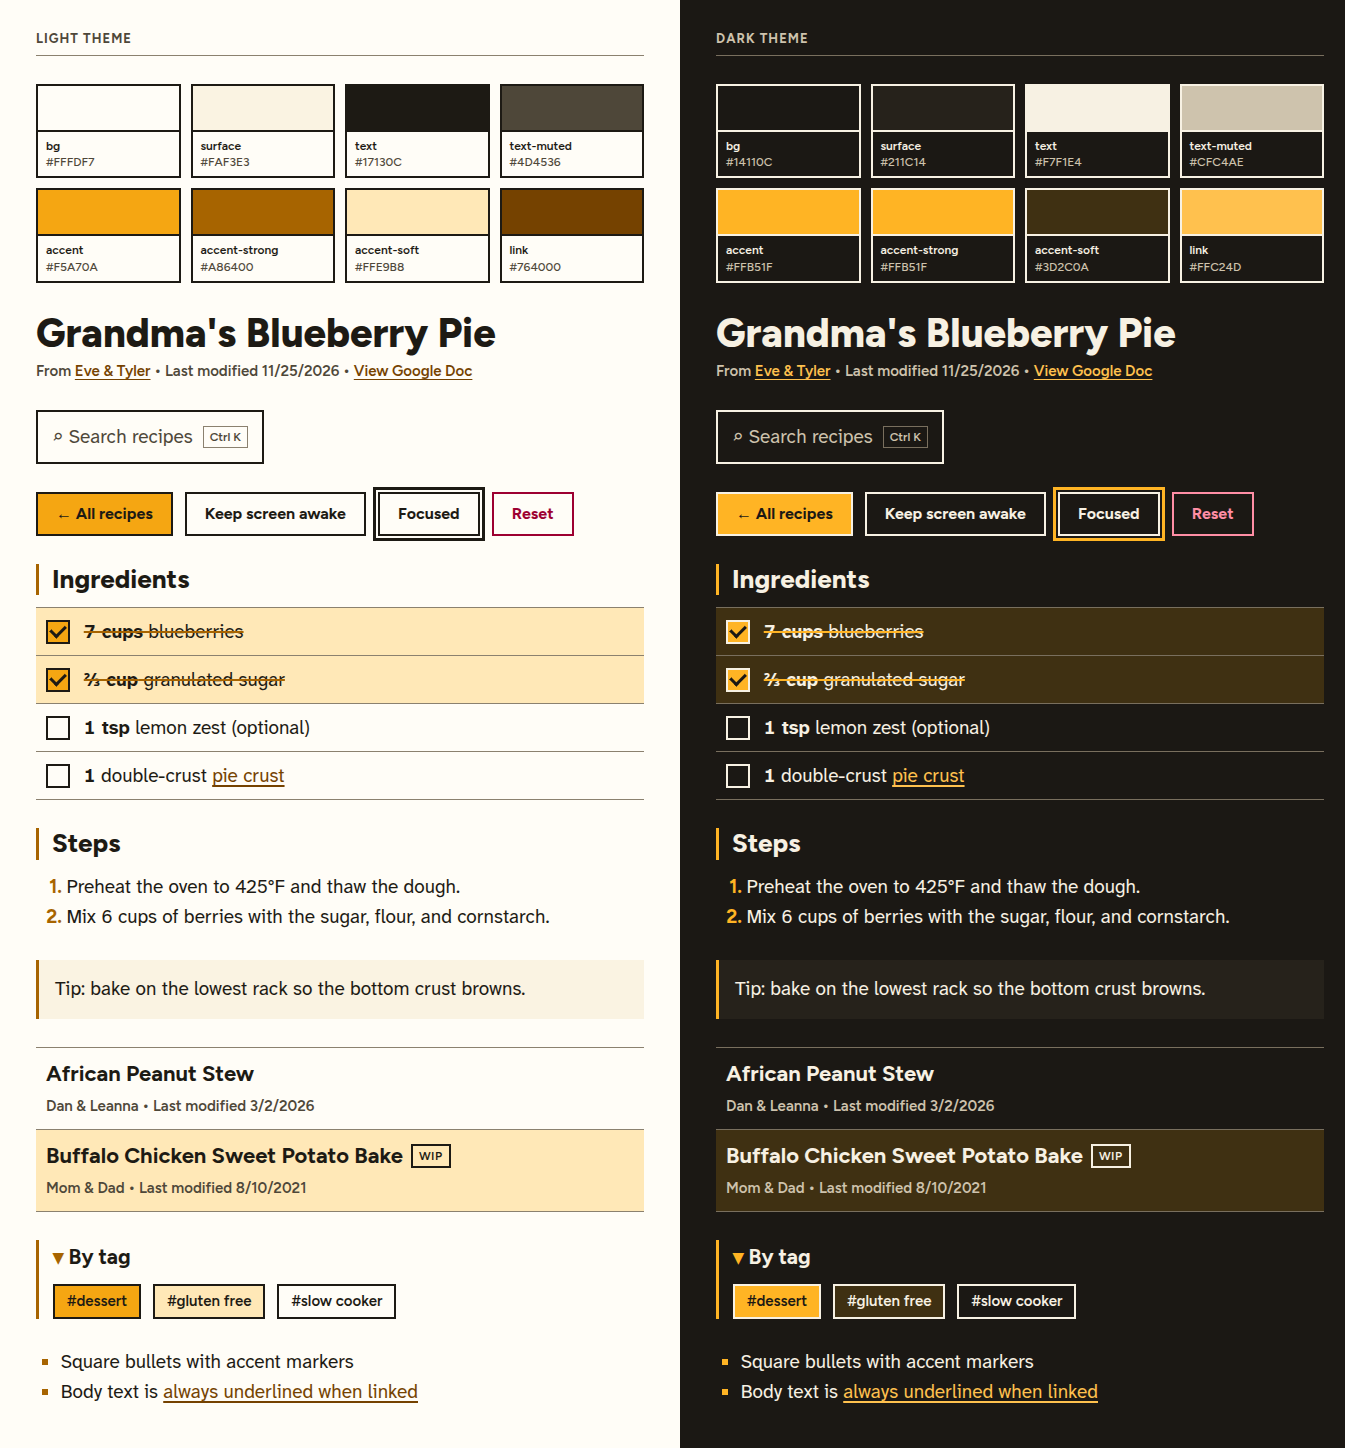
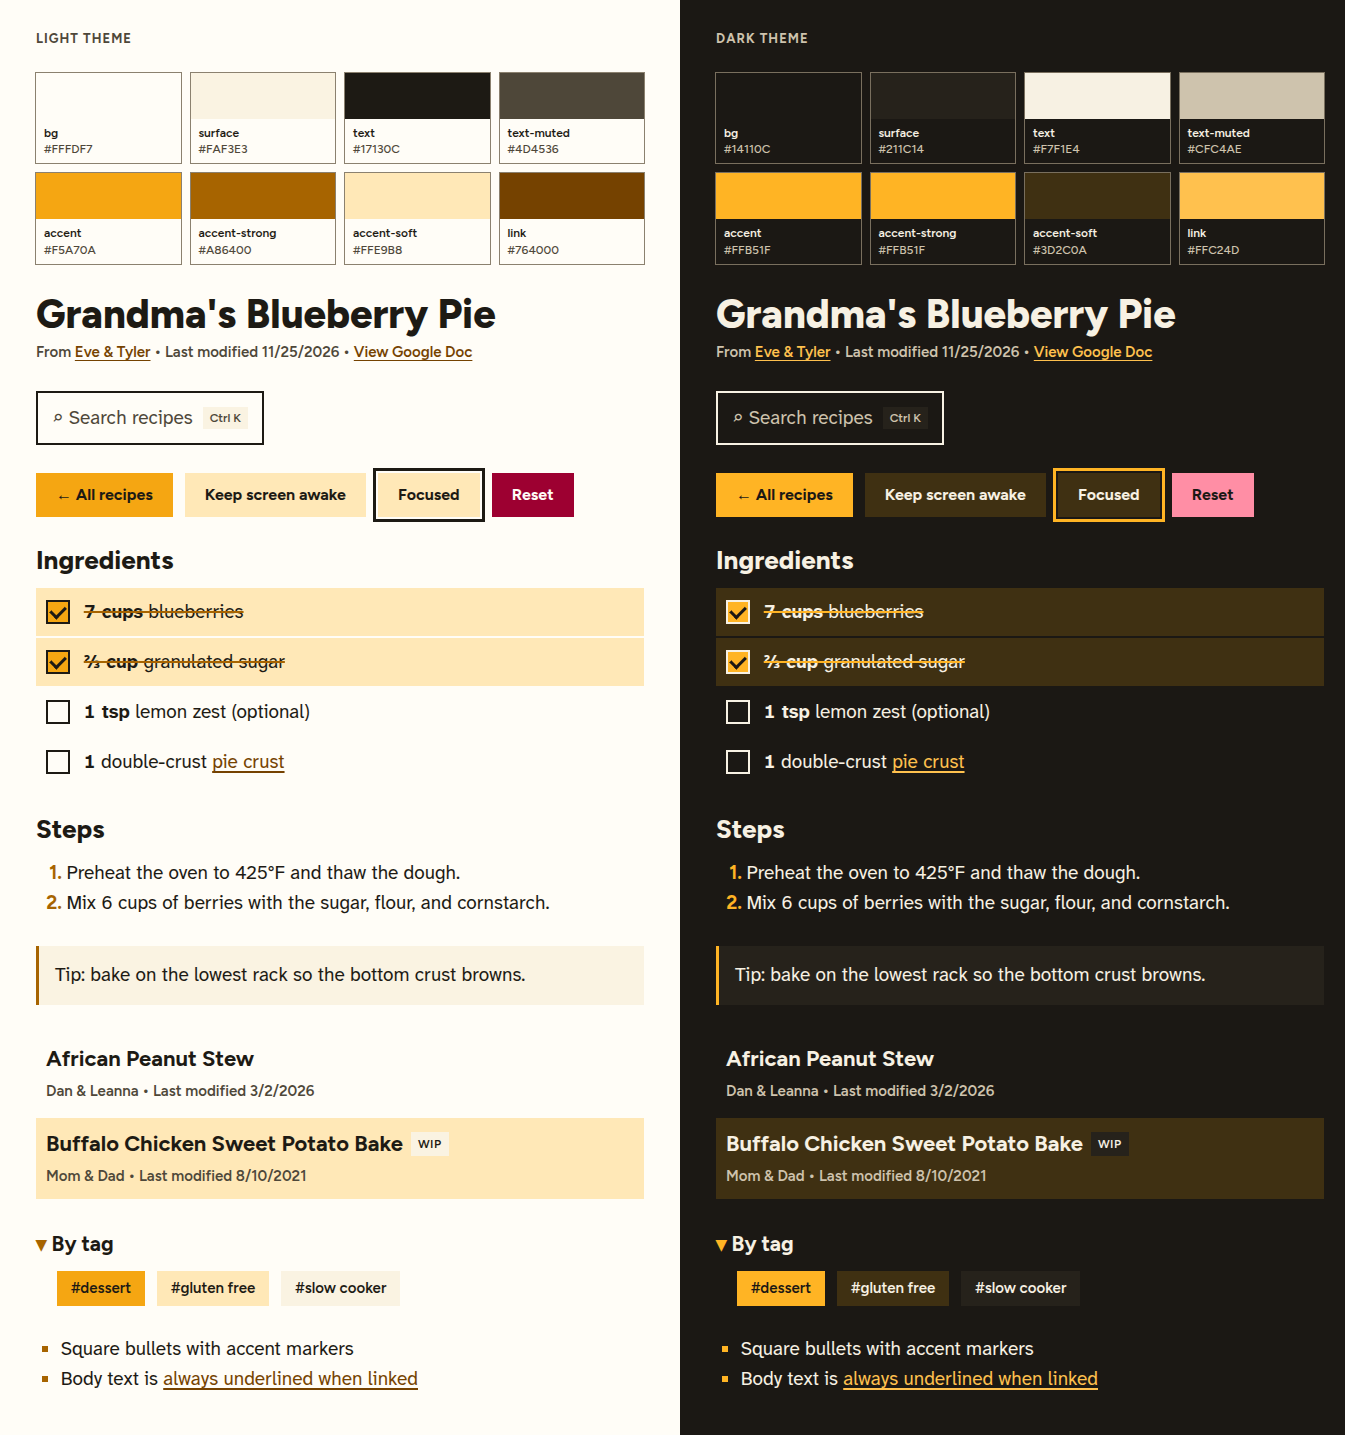
Use far fewer borders in the style guide
Match the sibling sites: borders only where a control needs one to be
recognizable (checkboxes, text inputs) plus the accent rule on
blockquotes. Buttons, list rows, chips, badges, headings, and
disclosures are now borderless, separated by spacing and fills, with
state shown by accent and accent-soft fills. Update the preview page
and screenshot to match.

Claude-Session: https://claude.ai/code/session_01WYTj4qdJU9hbJNKNsu9B63

diff --git a/design-docs/2026-11-25-style-guide-preview.html b/design-docs/2026-11-25-style-guide-preview.html
@@ -33,41 +33,43 @@
   .panel { background: var(--color-bg); color: var(--color-text); padding: 32px 36px 40px; }
   .panel > * + * { margin-top: 28px; }
   .panel-label { font: 700 13px/1 var(--font-heading); letter-spacing: .08em; text-transform: uppercase;
-    color: var(--color-text-muted); border-bottom: 1px solid var(--color-rule); padding-bottom: 10px; }
+    color: var(--color-text-muted); }
   h1, h2, h3, summary { font-family: var(--font-heading); margin: 0; }
   h1 { font-size: 40px; font-weight: 800; line-height: 1.1; text-wrap: balance; }
-  h2 { font-size: 26px; font-weight: 750; line-height: 1.2; border-left: 3px solid var(--color-accent-strong); padding-left: .5em; }
+  h2 { font-size: 26px; font-weight: 750; line-height: 1.2; }
   p { margin: 0; }
   .meta { font: 600 15px/1.4 var(--font-heading); color: var(--color-text-muted); margin-top: 6px; }
   a { color: var(--color-link); text-decoration-thickness: max(1px, .08em); text-underline-offset: .18em; }
   a:hover { color: var(--color-link-hover); text-decoration-thickness: 2px; }
 
-  /* Swatches */
+  /* Swatches (preview scaffolding: thin outline so pale chips stay visible) */
   .swatches { display: grid; grid-template-columns: repeat(4, 1fr); gap: 10px; }
-  .swatch { border: 2px solid var(--color-border); }
-  .swatch .chip { height: 46px; border-bottom: 2px solid var(--color-border); }
+  .swatch { outline: 1px solid var(--color-rule); }
+  .swatch .chip { height: 46px; }
   .swatch .info { padding: 6px 8px; font: 600 12px/1.35 var(--font-heading); }
   .swatch .info span { display: block; color: var(--color-text-muted); font-weight: 500; }
 
   /* Buttons */
   .row { display: flex; flex-wrap: wrap; gap: 12px; align-items: center; }
-  .btn { font: 700 16px/1 var(--font-heading); padding: 12px 18px; border: 2px solid var(--color-border);
-    border-radius: 0; background: transparent; color: var(--color-text); cursor: pointer; min-height: 44px; }
+  .btn { font: 700 16px/1 var(--font-heading); padding: 14px 20px; border: none;
+    border-radius: 0; cursor: pointer; min-height: 44px; }
   .btn-primary { background: var(--color-accent); color: var(--color-on-accent); }
   .btn-primary:hover { background: var(--color-text); color: var(--color-bg); }
-  .btn-secondary:hover { background: var(--color-accent-soft); }
-  .btn-danger { color: var(--color-danger); border-color: var(--color-danger); }
+  .btn-secondary { background: var(--color-accent-soft); color: var(--color-text); }
+  .btn-secondary:hover { background: var(--color-accent); color: var(--color-on-accent); }
+  .btn-danger { background: var(--color-danger); color: var(--color-bg); }
+  .btn-danger:hover { background: var(--color-text); }
   .btn.focus { outline: 3px solid var(--color-focus); outline-offset: 2px; }
 
   /* Search input */
   .search { display: flex; align-items: center; gap: 10px; border: 2px solid var(--color-border);
     background: var(--color-bg); padding: 10px 14px; min-height: 48px; color: var(--color-text-muted); }
-  .search kbd { margin-left: auto; font: 600 12px/1 var(--font-heading); border: 1px solid var(--color-rule); padding: 4px 6px; }
+  .search kbd { margin-left: auto; font: 600 12px/1 var(--font-heading); background: var(--color-surface); color: var(--color-text-muted); padding: 5px 7px; }
 
   /* Checklist */
-  .checklist { list-style: none; padding: 0; margin: 0; border-top: 1px solid var(--color-rule); }
+  .checklist { list-style: none; padding: 0; margin: 0; display: grid; gap: 2px; }
   .checklist li { display: flex; gap: 14px; align-items: center; min-height: 48px; padding: 6px 10px;
-    border-bottom: 1px solid var(--color-rule); font-variant-numeric: tabular-nums lining-nums; }
+    font-variant-numeric: tabular-nums lining-nums; }
   .box { flex: none; width: 1.25em; height: 1.25em; border: 2px solid var(--color-border); display: grid; place-items: center; }
   .done { background: var(--color-accent-soft); }
   .done .box { background: var(--color-accent); }
@@ -83,21 +85,21 @@
   ul.square li::marker { color: var(--color-accent-strong); }
 
   /* Recipe rows */
-  .rows { border-top: 1px solid var(--color-rule); }
-  .recipe-row { padding: 12px 10px; border-bottom: 1px solid var(--color-rule); }
+  .rows { display: grid; gap: 4px; }
+  .recipe-row { padding: 12px 10px; }
   .recipe-row.hover { background: var(--color-accent-soft); }
   .recipe-row .title { font: 700 22px/1.25 var(--font-heading); color: var(--color-text); text-decoration: none; }
-  .badge { font: 600 12px/1 var(--font-heading); border: 2px solid var(--color-border); padding: 3px 6px;
+  .badge { font: 600 12px/1 var(--font-heading); background: var(--color-surface); padding: 5px 7px;
     letter-spacing: .04em; text-transform: uppercase; margin-left: 8px; vertical-align: 3px; }
 
   /* Chips */
   .chip-link { font: 600 15px/1 var(--font-heading); color: var(--color-text); text-decoration: none;
-    border: 2px solid var(--color-border); padding: 8px 12px; display: inline-block; }
+    background: var(--color-surface); padding: 10px 14px; display: inline-block; }
   .chip-link.active { background: var(--color-accent); color: var(--color-on-accent); }
   .chip-link.hover { background: var(--color-accent-soft); }
 
   /* Details */
-  details { border-left: 3px solid var(--color-accent-strong); padding-left: 14px; }
+  details > div { padding-left: 1.1em; }
   summary { font-size: 21px; font-weight: 700; cursor: pointer; list-style: none; }
   summary::before { content: '▾ '; color: var(--color-accent-strong); }
   details > div { margin-top: 10px; }

diff --git a/design-docs/2026-11-25-style-guide.md b/design-docs/2026-11-25-style-guide.md
@@ -8,7 +8,7 @@ A visual preview of the tokens and core components in both themes is in [`2026-1
 
 1. **Readable mid-task.** People use this site while cooking: a phone propped up across the counter, flour on their hands, a quick glance between steps. Text is large, high-contrast, and set in a typeface designed for legibility.
 2. **High contrast, everywhere.** All text meets **WCAG AAA (7:1)**. Borders and other non-text indicators meet at least 3:1. Neither theme has low-contrast "subtle gray" text.
-3. **Sharp and flat.** Square corners, solid borders, solid fills. No shadows, gradients, or rounded cards.
+3. **Sharp, flat, and quiet.** Square corners and solid fills. Borders only where a control needs one to be recognizable. Structure comes from spacing, fills, and the occasional accent rule. No shadows, gradients, or rounded cards.
 4. **Warm, not loud.** The yellow-orange is the kitchen-light accent: it marks what's actionable and what's done. It never fills large areas.
 
 ---
@@ -25,18 +25,18 @@ Semantic tokens replace the generated Radix `--primary-*` / `--gray-*` scales. C
 | `--color-surface` | Cards, list items, code, blockquotes | `#FAF3E3` | `#211C14` |
 | `--color-text` | Body text, headings, icons | `#17130C` | `#F7F1E4` |
 | `--color-text-muted` | Metadata, captions, labels | `#4D4536` | `#CFC4AE` |
-| `--color-border` | Control and card borders (2px) | `#17130C` | `#F7F1E4` |
-| `--color-rule` | Hairline dividers only (1px) | `#8C8270` | `#7A705E` |
+| `--color-border` | The few borders there are: checkboxes and text inputs | `#17130C` | `#F7F1E4` |
+| `--color-rule` | Rare 1px dividers (e.g. above the footer) | `#8C8270` | `#7A705E` |
 | `--color-accent` | Accent **fill**: primary buttons, checked boxes, highlights | `#F5A70A` | `#FFB51F` |
 | `--color-on-accent` | Text and icons on an accent fill | `#17130C` | `#14110C` |
-| `--color-accent-strong` | Accent as a **line or indicator**: blockquote rule, list markers, active tab | `#A86400` | `#FFB51F` |
+| `--color-accent-strong` | Accent as a **line or indicator**: blockquote rule, list markers, step numbers | `#A86400` | `#FFB51F` |
 | `--color-accent-soft` | Tinted backgrounds: hover rows, "done" ingredients, search highlights | `#FFE9B8` | `#3D2C0A` |
 | `--color-link` | Link text | `#764000` | `#FFC24D` |
 | `--color-link-hover` | Link hover and active | `#4A2800` | `#FFE0A3` |
 | `--color-focus` | Focus ring | `#17130C` | `#FFB51F` |
 | `--color-danger` | Destructive actions and errors (darker than the current `#d3003c`, which is only 5.4:1) | `#9E002D` | `#FF8FA6` |
 
-> ⚠ **The light-mode accent is a fill, never text.** `#F5A70A` on the paper background is only **2.0:1**, so it can't be used for text and can't be the only edge of a control. In light mode, anything filled with the accent also gets a 2px `--color-border` outline, which is part of the look. For accent-colored *lines* in light mode, use `--color-accent-strong`.
+> ⚠ **The light-mode accent is a fill, never text.** `#F5A70A` on the paper background is only **2.0:1**, so it can't be used for text or thin lines; use `--color-accent-strong` for accent-colored lines in light mode. Accent fills don't need an outline as long as they carry their own high-contrast content: a button's dark label (9.2:1), a check mark inside a bordered checkbox. Never use an accent fill *alone* to signal state.
 
 ### Measured contrast
 
@@ -147,7 +147,7 @@ Raise the base size. Recipes are read from a distance.
 | Element | Size | Weight | Face | Notes |
 |---|---|---|---|---|
 | `h1` (recipe title) | `--step-4` | 800 | heading | `text-wrap: balance` |
-| `h2` (Ingredients, Steps) | `--step-2` | 750 | heading | 3px `--color-accent-strong` bar on the left, `padding-inline-start: 0.5em` |
+| `h2` (Ingredients, Steps) | `--step-2` | 750 | heading | No decoration; size and weight carry it |
 | `h3` | `--step-1` | 700 | heading | |
 | Body | `--step-0` | 400 | body | |
 | Steps (`ol`) | `--step-0` | 400 | body | Numbers in heading face, 700, `--color-accent-strong` |
@@ -160,10 +160,14 @@ Headings use `--color-text`, not a tinted hue. Contrast takes priority over atmo
 ## Shape, borders, and space
 
 - **Corner radius: `0`. No exceptions** for buttons, inputs, cards, chips, modals, images, or focus rings. Circles are allowed only for things that are genuinely round.
-- **No shadows.** No `box-shadow` or `drop-shadow` for elevation. A popover or modal is set apart by a 2px `--color-border` outline and a backdrop.
-- **Borders have two weights:**
-  - `2px solid var(--color-border)` for anything you interact with or that defines a region: buttons, inputs, checkboxes, cards, the search box, modals.
-  - `1px solid var(--color-rule)` for dividers inside a region, such as between list rows or under a section.
+- **No shadows.** No `box-shadow` or `drop-shadow` for elevation. A modal is set apart by its backdrop and its `--color-bg` panel.
+- **Few borders.** Like Innerhelm and the personal website, a border is the exception. The full list:
+  - **Checkboxes:** `2px solid var(--color-border)`. An empty box has to be visible.
+  - **Text inputs** (the search box): `2px solid var(--color-border)`. A field has to read as a field.
+  - **Left accent rule** on blockquotes and tips: `3px solid var(--color-accent-strong)`. This is the one decorative line, shared with both sibling sites.
+  - **Focus ring** (an outline, not a border): see below.
+- **Everything else is borderless.** That covers buttons, cards, list rows, chips, badges, headings, disclosures, and modals. Separate items with space (the `l-stack` gap), group them with a `--color-surface` fill, and show state with `--color-accent-soft` or `--color-accent` fills.
+- **Dividers are rare.** Use a `1px --color-rule` line only where space alone can't separate two regions, such as above a footer. Never use one between list items.
 - **Space:** keep the Utopia space scale and the layout primitives (`l-stack`, `l-cluster`, `l-center`, `l-sidebar`). Prefer `gap` over margins.
 - **Touch targets:** at least 44×44px for anything tappable, especially the ingredient checkboxes and the keep-awake toggle.
 
@@ -185,15 +189,15 @@ Every focusable element gets the same ring: `outline: 3px solid var(--color-focu
 
 | Variant | Fill | Text | Border | Hover |
 |---|---|---|---|---|
-| **Primary** (one per view, e.g. "Back to all recipes", search) | `--color-accent` | `--color-on-accent` | 2px `--color-border` | `--color-text` fill, `--color-bg` text (inverts) |
-| **Secondary** (keep awake, reset checklist, theme toggle) | transparent | `--color-text` | 2px `--color-border` | `--color-accent-soft` fill |
-| **Danger** | transparent | `--color-danger` | 2px `--color-danger` | `--color-danger` fill, `--color-bg` text |
+| **Primary** (one per view, e.g. "Back to all recipes") | `--color-accent` | `--color-on-accent` | none | `--color-text` fill, `--color-bg` text (inverts) |
+| **Secondary** (keep awake, reset checklist, theme toggle) | `--color-accent-soft` | `--color-text` | none | `--color-accent` fill, `--color-on-accent` text |
+| **Danger** | `--color-danger` | `--color-bg` | none | `--color-text` fill, `--color-bg` text |
 
 Use the heading face at 700 weight with `--step--1`/`--step-0` sizes, and padding `var(--space-2xs) var(--space-s)`. Leave text in sentence case. Use **no transition on color**: the state change should be instant and crisp. Disabled buttons: `opacity: 0.55`, `cursor: not-allowed`, no hover change.
 
 ### Inputs (search box, any future forms)
 
-- `--color-bg` fill, 2px `--color-border`, radius 0, body face at `--step-0`.
+- `--color-bg` fill, 2px `--color-border`, radius 0, body face at `--step-0`. This is one of the few bordered elements.
 - Placeholder in `--color-text-muted`. It still has to meet 7:1, so the muted token works here.
 - Labels sit above the input in the label voice.
 
@@ -203,7 +207,7 @@ This is the signature interaction, so give it the most care.
 
 - **Checkbox:** a custom 1.25em square with a 2px `--color-border` outline and radius 0.
   - When checked, fill it with `--color-accent` and draw a `--color-on-accent` check mark.
-- **Row:** the whole row is the hit target, padded to at least 44px tall.
+- **Row:** the whole row is the hit target, padded to at least 44px tall. No dividers between rows; the padding separates them.
 - **Checked row:**
   - The text stays at full contrast. Don't fade it to gray, because that hurts legibility.
   - Instead, set a `--color-accent-soft` background and `text-decoration: line-through` with `text-decoration-color: var(--color-accent-strong)` and `text-decoration-thickness: 2px`.
@@ -211,19 +215,19 @@ This is the signature interaction, so give it the most care.
 
 ### Recipe list items (home, family, tag pages)
 
-- Flat rows separated by `1px --color-rule`, or cards with a 2px `--color-border` outline on `--color-surface`. Pick one and use it everywhere; rows are cleaner and recommended.
+- Plain, borderless rows separated by the `l-stack` gap. No dividers and no card outlines.
 - Title in the heading face at `--step-1`, 700. Metadata line in the label voice: `Mom & Dad • Last modified 9/26/2026`.
 - Hover: `--color-accent-soft` background across the whole row, with no movement or scaling.
-- The "work in progress" badge is a square chip: 2px `--color-border`, label voice, `--step--2`, no fill.
+- The "work in progress" badge is a square chip with an `--color-accent-soft` fill, label voice, `--step--2`, and no border.
 
 ### Tags and family chips
 
-Square chips with a 2px `--color-border` outline, `--color-text`, label voice, `#` prefix for tags. Hover uses an `--color-accent-soft` fill. The active or current chip has an `--color-accent` fill with `--color-on-accent` text.
+Borderless square chips: `--color-surface` fill, `--color-text`, label voice, `#` prefix for tags. Hover uses an `--color-accent-soft` fill. The active or current chip has an `--color-accent` fill with `--color-on-accent` text.
 
 ### Disclosure (`details` / `summary`: "By family", "By tag")
 
 - `summary` uses the heading face at `--step-1`, 700, with a custom square marker (`▸` / `▾`) in `--color-accent-strong`.
-- Open state: a 3px `--color-accent-strong` bar on the left of the content, like `h2`.
+- Open state: the content is indented under the summary text. No bar or border.
 
 ### Blockquotes, notes, and tips
 
@@ -244,7 +248,7 @@ html:root {
   --pf-text-secondary: var(--color-text-muted);
   --pf-text-muted: var(--color-text-muted);
   --pf-background: var(--color-bg);
-  --pf-border: var(--color-border);
+  --pf-border: var(--color-border); /* Pagefind uses this for the input; result cards are borderless below */
   --pf-border-focus: var(--color-focus);
   --pf-border-radius: 0;
   --pf-hover: var(--color-accent-soft);
@@ -258,6 +262,8 @@ html:root {
   --pf-skeleton-shine: var(--color-accent-soft);
 }
 ```
+
+Pagefind also outlines its result cards with `--pf-border`. Override those to `border: none` and separate results with a `--color-surface` fill, so the input stays the only bordered element in the modal.
 
 ---
 
@@ -282,10 +288,10 @@ Recipes get printed, so print gets real styles (adapted from Innerhelm):
 | Do | Don't |
 |---|---|
 | Use the accent as a **fill** with dark text on it | Put the light-mode accent on text or thin lines |
-| Outline accent fills with a 2px `--color-border` in light mode | Rely on the yellow edge alone to show a button's shape |
+| Separate items with space and fills | Add borders or dividers between list items, cards, or buttons |
 | Keep muted text at the `--color-text-muted` token (≥7:1) | Lower opacity to de-emphasize text |
 | Mark done ingredients with a tint and strikethrough | Gray out done ingredients |
-| Use square corners and flat borders | Add `border-radius`, shadows, or gradients |
+| Use square corners and flat fills | Add `border-radius`, shadows, or gradients |
 | Use `gap` and the layout primitives | Hand-tune margins per component |
 
 ---
@@ -299,7 +305,7 @@ The site currently generates Radix scales from `#CC5500` (burnt orange) in `src/
 | `--gray-1` | `--color-bg` |
 | `--gray-3`, `--gray-4` | `--color-surface` |
 | `--gray-5`, `--gray-6` | `--color-accent-soft` (hover) or `--color-surface` |
-| `--gray-7`, `--gray-8` | `--color-border` (controls) or `--color-rule` (dividers) |
+| `--gray-7`, `--gray-8` | Usually remove the border. Keep `--color-border` only for checkboxes and inputs. |
 | `--gray-11` | `--color-text-muted` |
 | `--gray-12` | `--color-text` |
 | `--gray-contrast` | `--color-on-accent` |
@@ -312,7 +318,7 @@ Suggested order:
 
 1. Add the tokens and fonts.
 2. Swap `base.scss`.
-3. Restyle the components (buttons, checklist, list rows, chips, details).
+3. Restyle the components (buttons, checklist, list rows, chips, details), removing borders as you go.
 4. Update the Pagefind mapping.
 5. Remove the Radix color generation and the `opacity: 0.8` metadata styles.
 6. Add print styles.

diff --git a/design-docs/2026-11-25-design-principles.md b/design-docs/2026-11-25-design-principles.md
@@ -75,5 +75,5 @@ Innerhelm has full `@media print` rules: backgrounds dropped, text forced to nea
 **Push further here:**
 
 1. **Contrast.** Both sites use mid-tone grays for secondary text (Innerhelm's labels are `gray-500`), and those fall below WCAG AAA. This site should hold all text to at least 7:1.
-2. **Borders.** Use a near-black (or near-white, in dark mode) 2px border as the main way to define controls and cards, not just a decoration.
+2. **Strong edges where edges exist.** Keep borders as rare as the sibling sites do, but where one is needed (checkboxes, text inputs), make it full-contrast and 2px instead of a pale gray.
 3. **Legibility over atmosphere.** Recipes get read mid-task, at arm's length, on a phone propped against a backsplash. Choose a hyperlegible face over a literary serif, and use larger sizes and touch targets.
